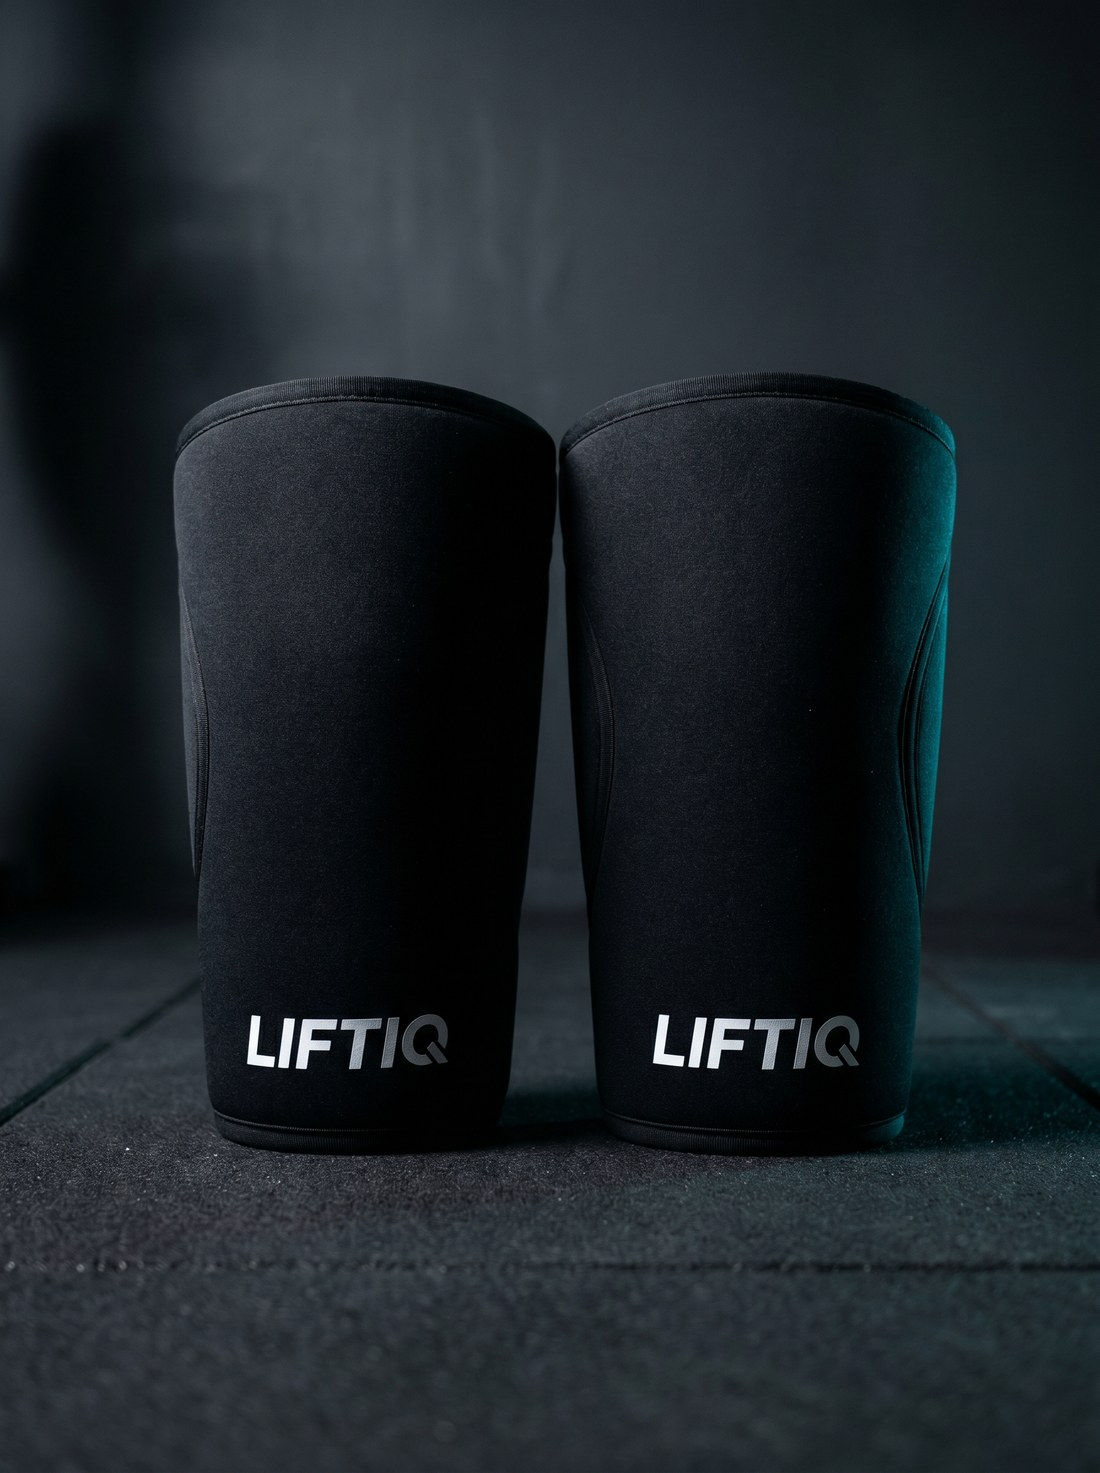
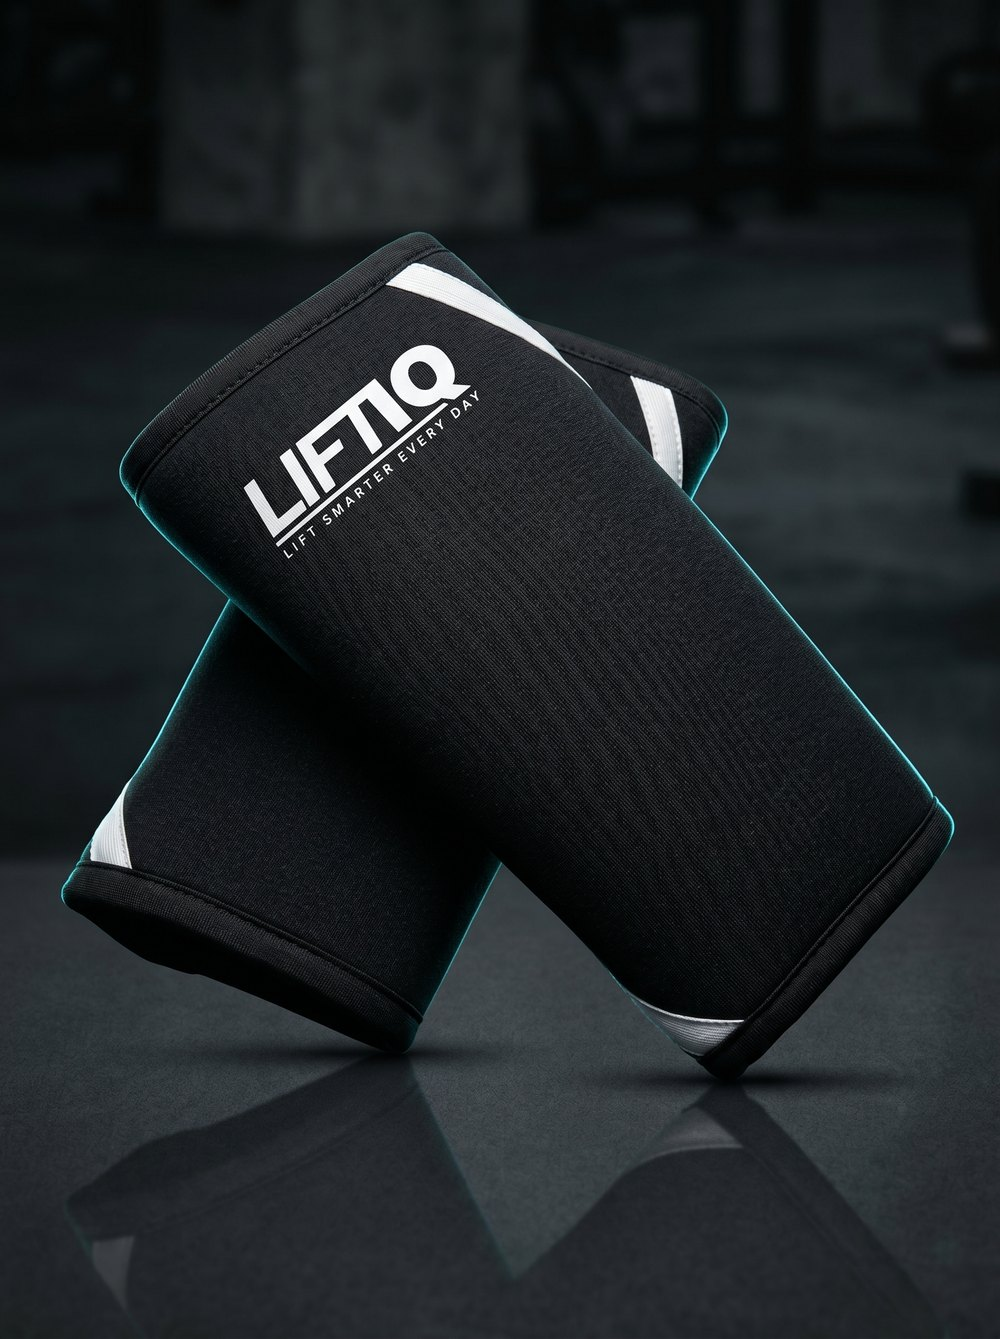
Add real LIFTIQ gear product photos (straps, knee sleeves, wrist wraps) from Higgsfield; remove temp source crops

diff --git a/index.html b/index.html
@@ -836,16 +836,16 @@
       </div>
     </div>
 
-    <!-- Lifting Straps — Coming Soon -->
-    <div class="product-card reveal reveal-delay-2">
+    <!-- Lifting Straps -->
+    <div class="product-card reveal reveal-delay-2" id="straps">
       <div class="product-img-wrap">
-        <img src="images/straps.jpg" alt="LIFTIQ Lifting Straps PRO" loading="lazy" style="filter:grayscale(0.15) brightness(0.85);">
+        <img src="images/straps.jpg" alt="LIFTIQ Lifting Straps" loading="lazy">
         <span class="product-badge" style="background:var(--dark-3);color:var(--blue);border:1px solid var(--blue);">Binnenkort</span>
       </div>
       <div class="product-body">
-        <div class="product-cat">Lifting Gear</div>
-        <div class="product-name">LIFTING<br>STRAPS PRO</div>
-        <p class="product-desc">Volkorenleer met versterkte naad. Maximale grip bij deadlifts, rows en pull-oefeningen. One size fits all.</p>
+        <div class="product-cat">Training Gear · Grip</div>
+        <div class="product-name">LIFTING<br>STRAPS</div>
+        <p class="product-desc">Gewatteerde cuff en versterkte band voor maximale grip bij deadlifts, rows en pulls. Houd de stang vast als je greep het opgeeft.</p>
         <div class="product-footer">
           <span class="product-price" style="color:var(--text-muted);font-size:18px;">Binnenkort</span>
           <span class="product-btn" style="background:var(--dark-3);color:var(--blue);border:1px solid var(--blue);cursor:default;">Coming Soon</span>
@@ -853,16 +853,33 @@
       </div>
     </div>
 
-    <!-- Knee Sleeves — Coming Soon -->
-    <div class="product-card reveal reveal-delay-1">
+    <!-- Knee Sleeves -->
+    <div class="product-card reveal reveal-delay-1" id="sleeves">
       <div class="product-img-wrap">
-        <img src="images/sleeves.jpg" alt="LIFTIQ Knee Sleeves Compression X" loading="lazy" style="filter:grayscale(0.15) brightness(0.85);">
+        <img src="images/sleeves.jpg" alt="LIFTIQ Knee Sleeves" loading="lazy">
         <span class="product-badge" style="background:var(--dark-3);color:var(--blue);border:1px solid var(--blue);">Binnenkort</span>
       </div>
       <div class="product-body">
-        <div class="product-cat">Lifting Gear</div>
-        <div class="product-name">COMPRESSION X<br>Knee Sleeves</div>
-        <p class="product-desc">7mm neopreen, IPF-goedgekeurd. Maximale kniestabiliteit en warmtebehoud voor squat &amp; leg day.</p>
+        <div class="product-cat">Training Gear · Stabiliteit</div>
+        <div class="product-name">KNEE<br>SLEEVES</div>
+        <p class="product-desc">7mm neopreen voor warmte, compressie en stabiliteit. Meer controle en vertrouwen onder zware squats en leg day.</p>
+        <div class="product-footer">
+          <span class="product-price" style="color:var(--text-muted);font-size:18px;">Binnenkort</span>
+          <span class="product-btn" style="background:var(--dark-3);color:var(--blue);border:1px solid var(--blue);cursor:default;">Coming Soon</span>
+        </div>
+      </div>
+    </div>
+
+    <!-- Wrist Wraps -->
+    <div class="product-card reveal reveal-delay-2" id="wraps">
+      <div class="product-img-wrap">
+        <img src="images/wraps.jpg" alt="LIFTIQ Wrist Wraps" loading="lazy">
+        <span class="product-badge" style="background:var(--dark-3);color:var(--blue);border:1px solid var(--blue);">Binnenkort</span>
+      </div>
+      <div class="product-body">
+        <div class="product-cat">Training Gear · Support</div>
+        <div class="product-name">WRIST<br>WRAPS</div>
+        <p class="product-desc">Stevige polssteun met duimlus en klittenband. Extra stabiliteit en controle bij bench, overhead press en heavy pushes.</p>
         <div class="product-footer">
           <span class="product-price" style="color:var(--text-muted);font-size:18px;">Binnenkort</span>
           <span class="product-btn" style="background:var(--dark-3);color:var(--blue);border:1px solid var(--blue);cursor:default;">Coming Soon</span>
